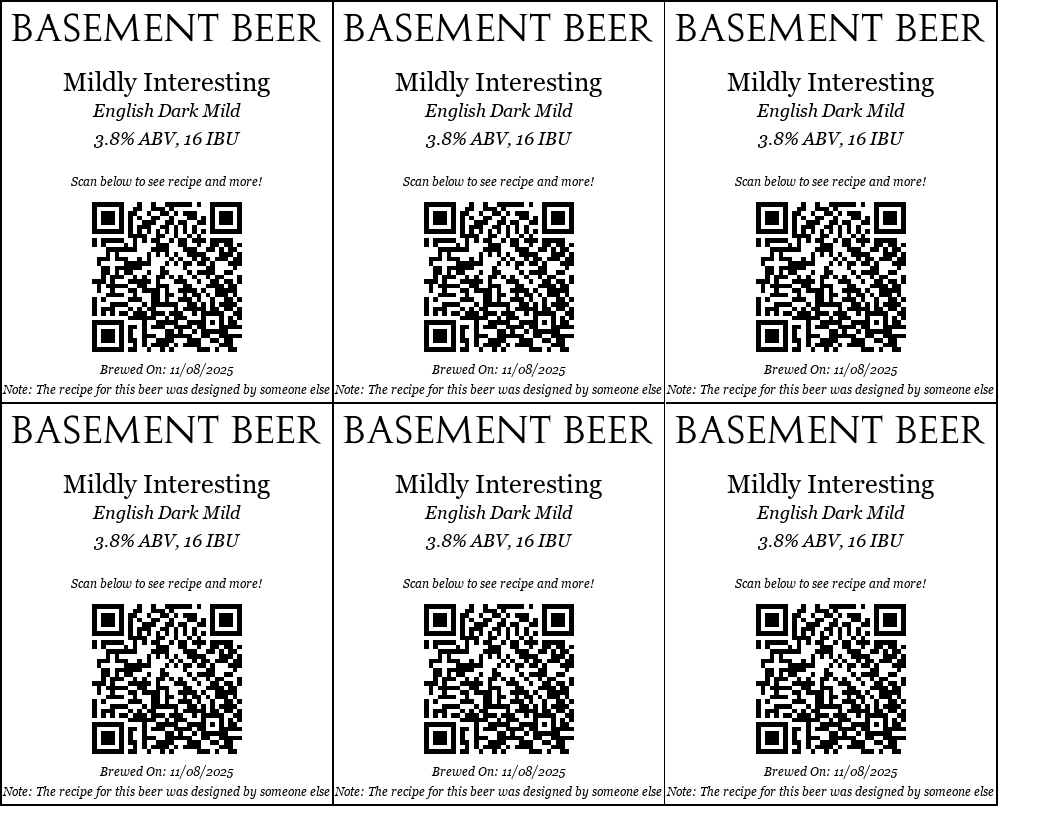
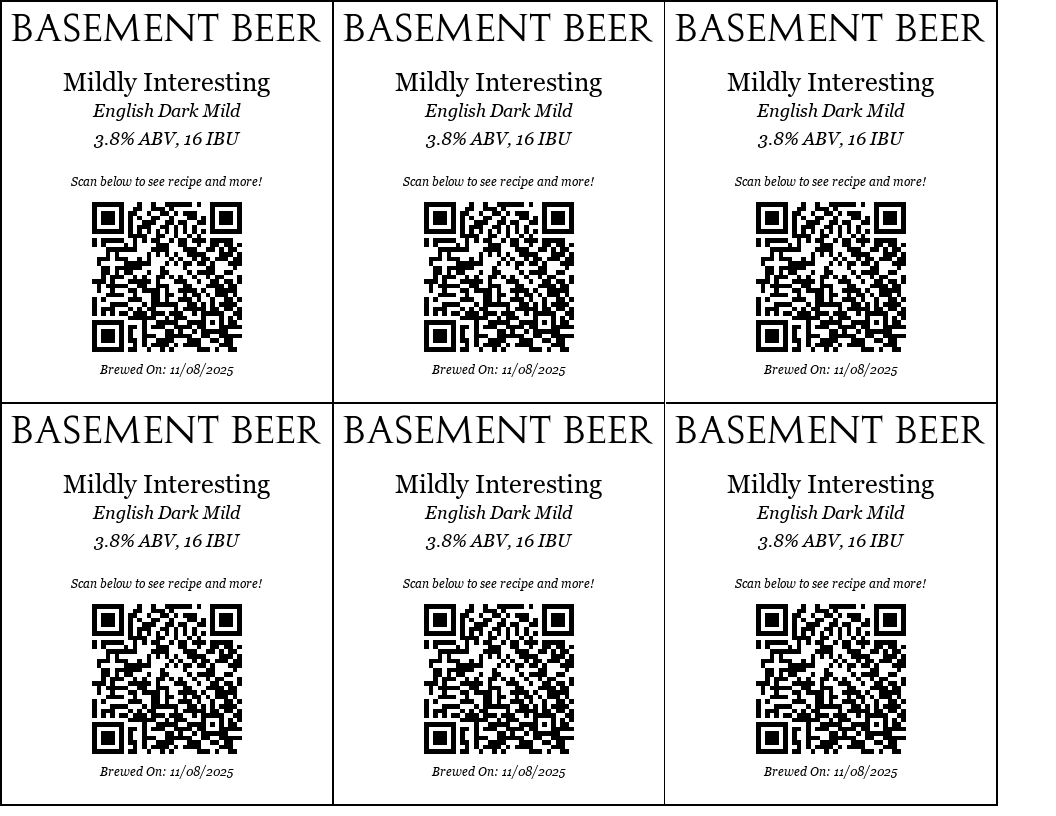
Updated Dark Mild Stuff

Changed region(s): [[0.0, 0.9498, 0.9375, 0.9804], [0.0, 0.4596, 0.9375, 0.4902]]

diff --git a/qr_code_generator.py b/qr_code_generator.py
@@ -48,6 +48,6 @@ make_label("mild.png",
            "English Dark Mild",
            3.8,
            16,
-           True,
+           False,
            "11/08/2025",
            "https://jlisenbee.github.io/LisenbeeCellars/#MildlyInteresting")
